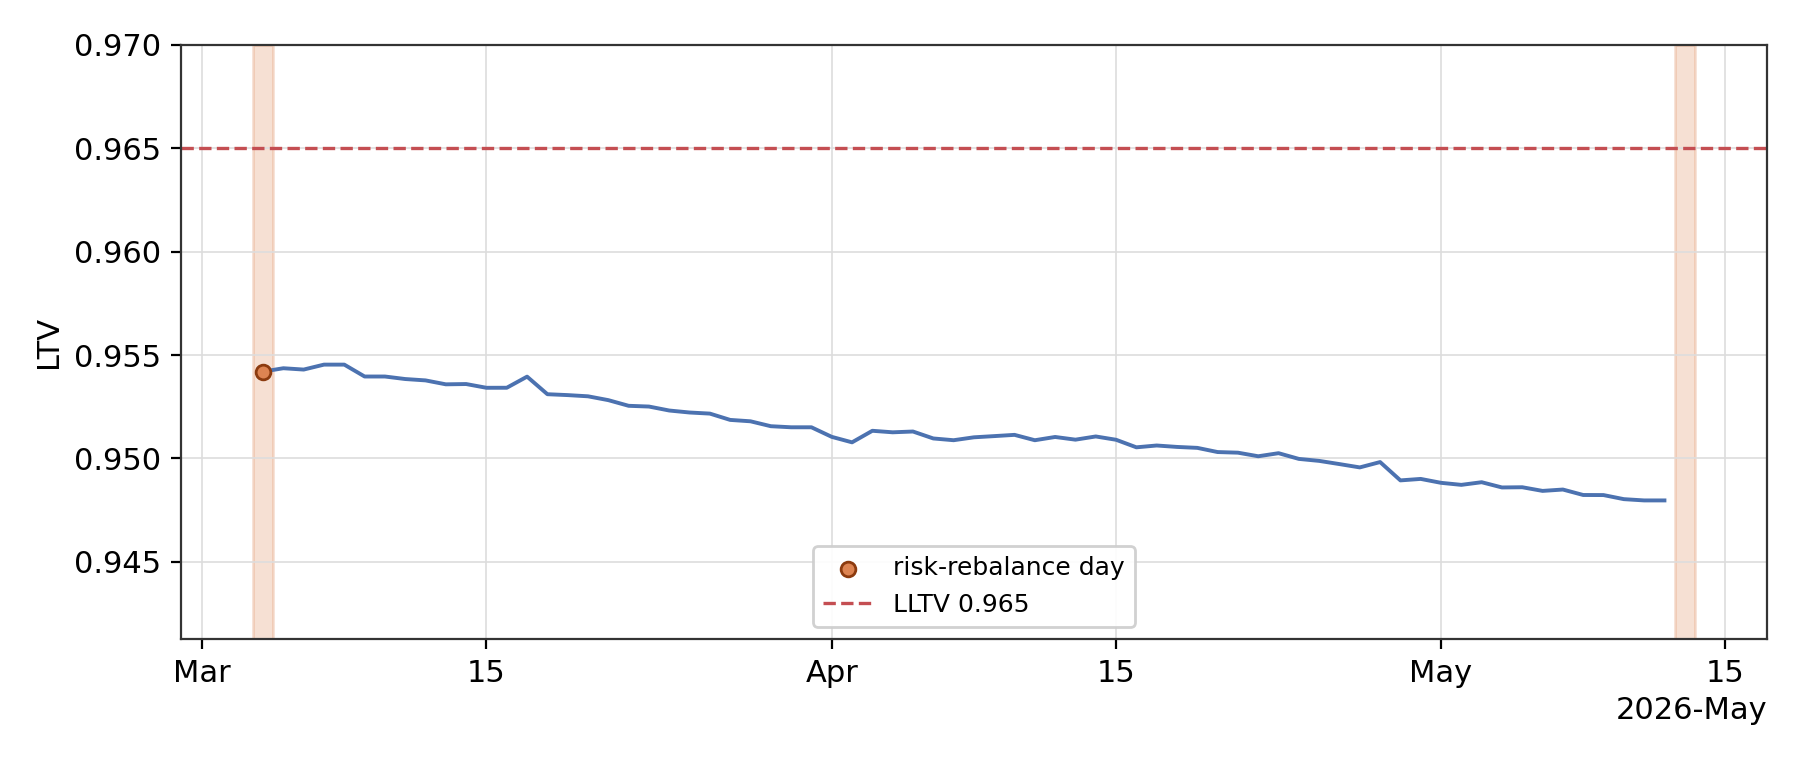
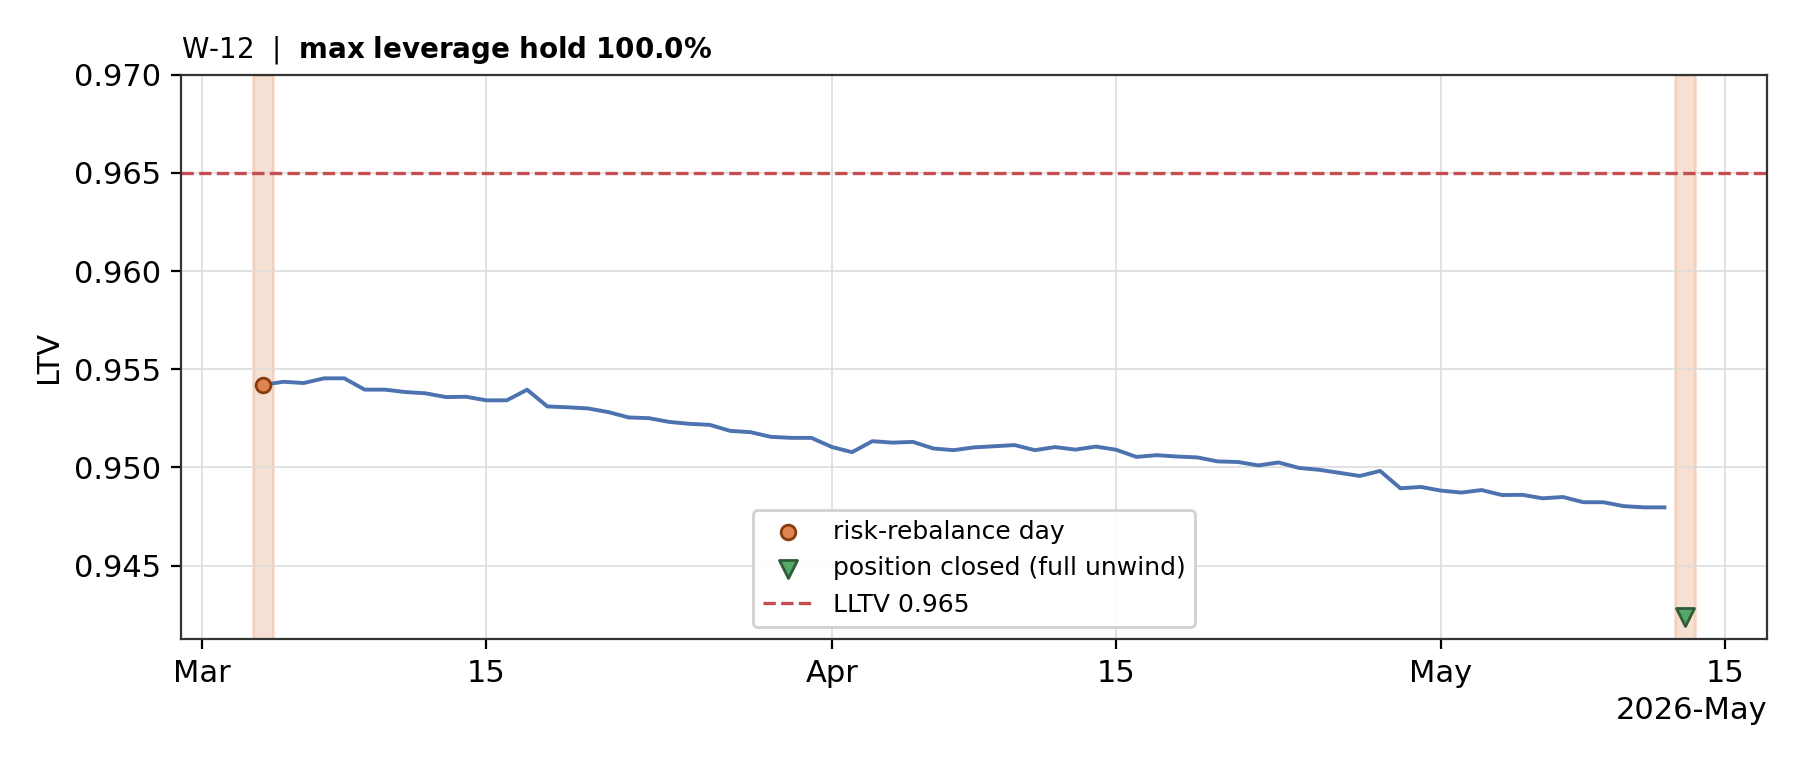
Annotate rebalance timelines with archetype mix and full-unwind markers

diff --git a/analysis/whale-archetypes/rebalance_timeline_charts.py b/analysis/whale-archetypes/rebalance_timeline_charts.py
@@ -18,6 +18,7 @@ import matplotlib.pyplot as plt
 import pandas as pd
 
 PANEL = Path(__file__).resolve().parents[2] / "feature_engineering" / "data" / "daily_features_all.csv"
+ARCHETYPES = Path(__file__).resolve().parent / "panel_archetypes.csv"
 OUT_ALL = Path(__file__).resolve().parent / "output" / "rebalance_timelines"
 OUT_PAPER = Path(__file__).resolve().parent / "output"
 
@@ -46,7 +47,22 @@ def episodes(dates: pd.Series) -> list[tuple[pd.Timestamp, pd.Timestamp]]:
     return spans
 
 
-def plot_whale(g: pd.DataFrame, wid: str, out_path: Path) -> bool:
+def mix_title(wid: str, mixes: pd.DataFrame) -> str:
+    """'W-16 | active looping 45.9% ... ' with the dominant archetype in bold."""
+    g = mixes[mixes["whale_id"] == wid]
+    if g.empty:
+        return wid
+    pct = (100 * g["cluster_name"].value_counts(normalize=True)).round(1)
+    parts = []
+    for i, (name, p) in enumerate(pct.items()):
+        label = f"{name} {p}%"
+        if i == 0:  # dominant archetype
+            label = r"$\bf{" + label.replace(" ", r"\ ").replace("%", r"\%").replace(",", ",\!") + "}$"
+        parts.append(label)
+    return f"{wid}  |  " + "  ·  ".join(parts)
+
+
+def plot_whale(g: pd.DataFrame, wid: str, out_path: Path, mixes: pd.DataFrame) -> bool:
     # Keep LTV == 0 rows so wind-downs to zero stay visible, but require a
     # position context (any debt over the panel).
     plot = g[g["ltv"].notna()].copy()
@@ -87,9 +103,20 @@ def plot_whale(g: pd.DataFrame, wid: str, out_path: Path) -> bool:
         label="risk-rebalance day",
     )
 
+    # Full-unwind days: all debt repaid and collateral withdrawn, so LTV is
+    # undefined and the line cannot reach the shaded period. Mark explicitly.
+    closes = g[(g["risk_rebalance"] == 1) & (g["ltv"].isna())]
+    if not closes.empty:
+        ax.scatter(
+            closes["date"], [ymin + 0.04 * (ymax - ymin)] * len(closes),
+            marker="v", color="#55A868", edgecolor="#2E5C38", s=42, zorder=3,
+            label="position closed (full unwind)",
+        )
+
     if lltv is not None:
         ax.axhline(lltv, color="#C44E52", linewidth=1.2, linestyle="--", label=f"LLTV {lltv:.3f}")
 
+    ax.set_title(mix_title(wid, mixes), loc="left", fontsize=10)
     ax.set_ylim(ymin, ymax)
     ax.set_ylabel("LTV")
     locator = mdates.AutoDateLocator()
@@ -104,13 +131,14 @@ def plot_whale(g: pd.DataFrame, wid: str, out_path: Path) -> bool:
 
 def main() -> None:
     df = pd.read_csv(PANEL, parse_dates=["date"])
+    mixes = pd.read_csv(ARCHETYPES, usecols=["whale_id", "cluster_name"])
     OUT_ALL.mkdir(parents=True, exist_ok=True)
 
     made = []
     for wid, g in df.groupby("whale_id"):
         g = g.sort_values("date")
         out = OUT_ALL / f"ltv_rebalance_timeline_{wid}.png"
-        if plot_whale(g, wid, out):
+        if plot_whale(g, wid, out, mixes):
             made.append(wid)
 
     for wid in PAPER_WHALES:
